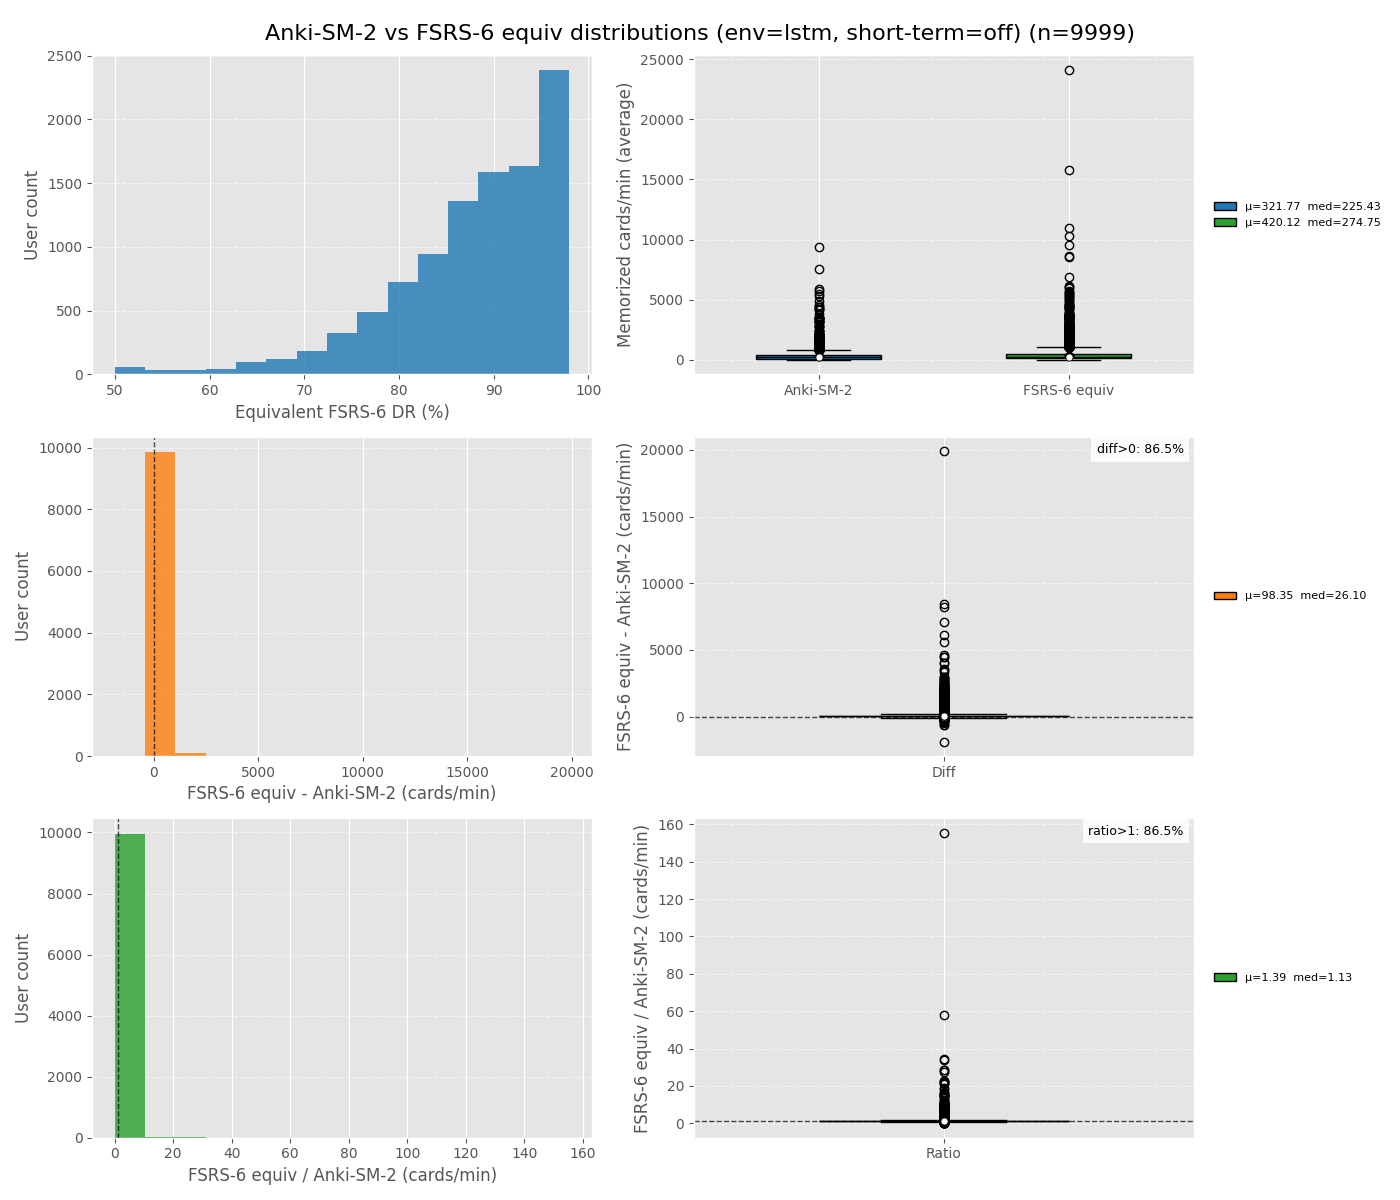
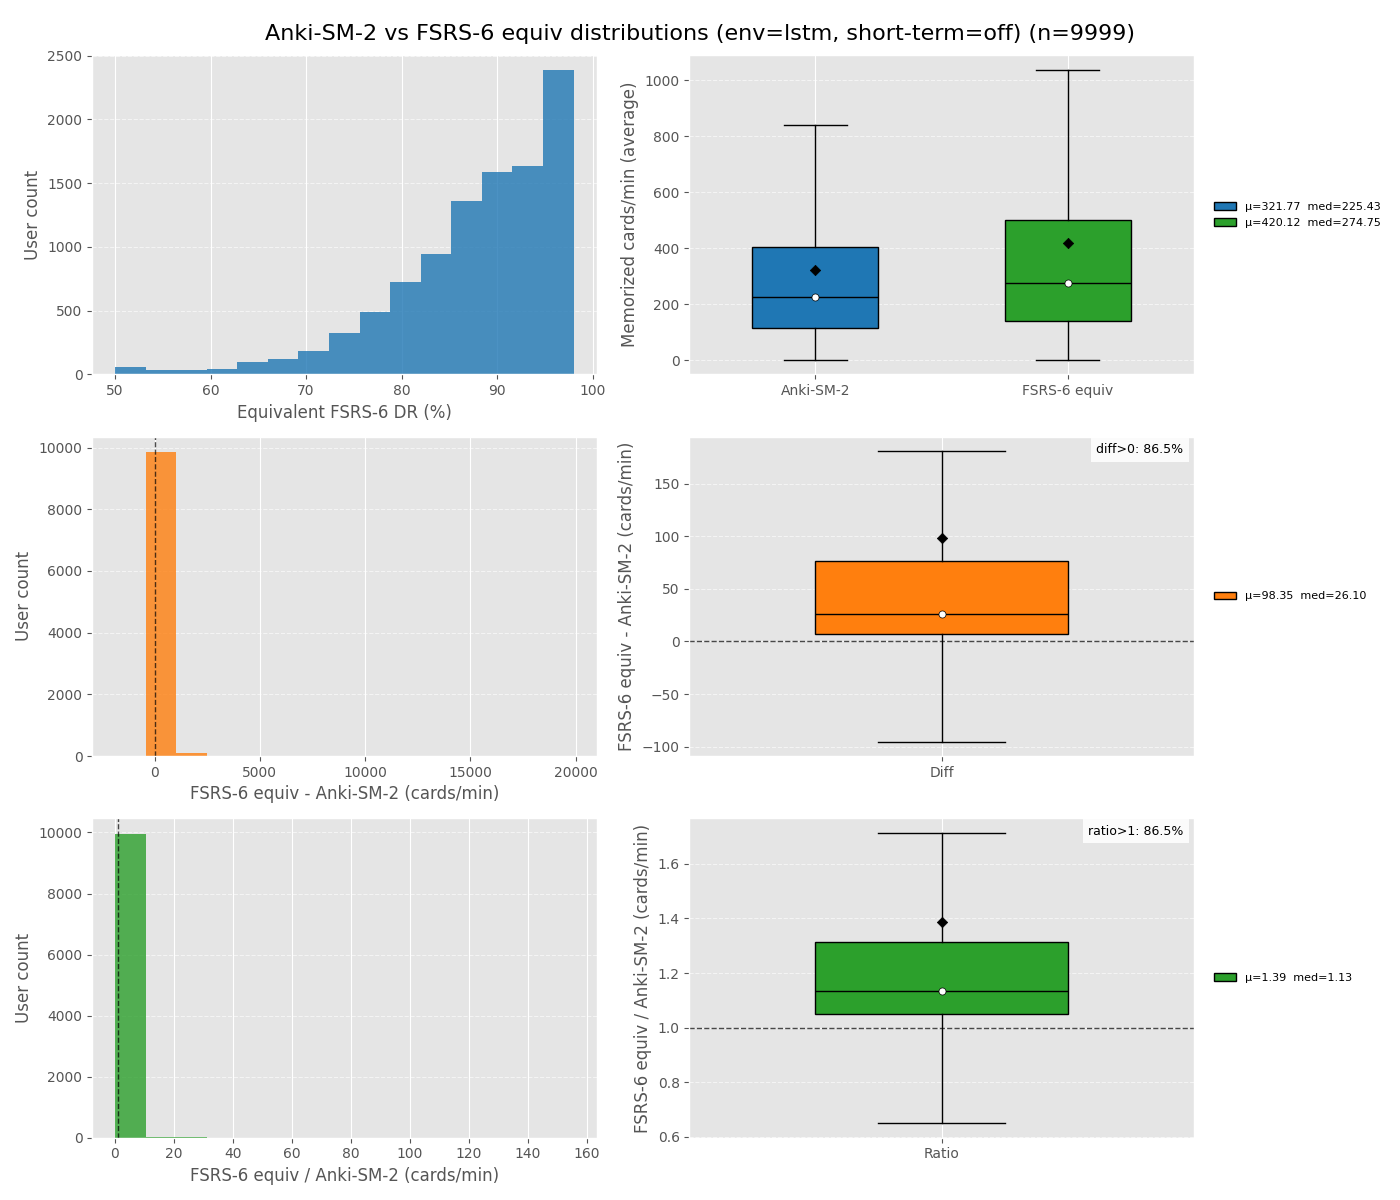
fix(retention-sweep): hide boxplot outliers

diff --git a/experiments/retention_sweep/aggregate_users.py b/experiments/retention_sweep/aggregate_users.py
@@ -485,7 +485,7 @@ def main() -> None:
                 env_label = entry["environment"]
                 title = _format_title(
                     (
-                        "FSRSv3 / FSRS-6 ratio at the same DR "
+                        "FSRSv3 / FSRS-6 ratio at equivalent memorized-average "
                         f"(env={env_label}, short-term={args.short_term})"
                     ),
                     sorted(entry["user_ids"]),
@@ -525,6 +525,7 @@ def _interpolate_equivalent_point(
     candidates: List[Tuple[float, Dict[str, float]]],
     *,
     target_x: float,
+    allow_extrapolation: bool = True,
 ) -> Tuple[float, float] | None:
     """Interpolate (dr, y) at target memorized-average x.
 
@@ -551,6 +552,8 @@ def _interpolate_equivalent_point(
         if point["x"] >= target_x and upper is None:
             upper = point
     if lower is None or upper is None:
+        if not allow_extrapolation:
+            return None
         points.sort(key=lambda item: abs(item["x"] - target_x))
         lower = points[0]
         upper = points[1]
@@ -662,11 +665,15 @@ def _compute_fsrs3_vs_fsrs6_ratio_by_fsrs6_dr(
     envs: List[str],
     common_user_ids: set[int],
 ) -> List[Dict[str, Any]]:
-    """Compute per-user ratio at the same DR (no interpolation), binned by FSRS-6 DR.
+    """Compute per-user ratio at equivalent memorized-average, binned by FSRS-6 DR.
 
-    For each user and each DR value present in both FSRS-6 and FSRSv3 sweeps:
-    - ratio = y3(dr) / y6(dr), where y is memorized_per_minute
-    - group ratio by DR (x axis is FSRS-6 DR)
+    For each user and each FSRS-6 desired retention point:
+    - take FSRS-6 (dr6, x6=memorized_average, y6=memorized_per_minute)
+    - interpolate FSRSv3 to match x6 => y3_equiv
+      - interpolation only (no extrapolation): if x6 is outside FSRSv3's x-range,
+        skip that (user, dr6) point.
+    - ratio = y3_equiv / y6
+    - group ratio by dr6 (x axis is FSRS-6 DR)
     """
 
     entries: List[Dict[str, Any]] = []
@@ -700,19 +707,28 @@ def _compute_fsrs3_vs_fsrs6_ratio_by_fsrs6_dr(
         for user_id in sorted(eligible_users):
             fsrs6_points = fsrs6_users[user_id]
             fsrs3_points = fsrs3_users[user_id]
-            common_drs = sorted(set(fsrs6_points) & set(fsrs3_points))
-            if not common_drs:
+            if len(fsrs3_points) < 2:
                 continue
 
-            for dr in common_drs:
-                y6 = float(fsrs6_points[dr]["memorized_per_minute"])
-                y3 = float(fsrs3_points[dr]["memorized_per_minute"])
-                if y6 <= 0:
+            fsrs3_curve = [(dr, metrics) for dr, metrics in fsrs3_points.items()]
+            for dr6 in sorted(fsrs6_points):
+                metrics6 = fsrs6_points[dr6]
+                x6 = float(metrics6["memorized_average"])
+                y6 = float(metrics6["memorized_per_minute"])
+                if y6 <= 0 or not math.isfinite(y6):
                     continue
+                interp = _interpolate_equivalent_point(
+                    fsrs3_curve,
+                    target_x=x6,
+                    allow_extrapolation=False,
+                )
+                if interp is None:
+                    continue
+                _dr3, y3 = interp
                 ratio = y3 / y6
                 if not math.isfinite(ratio):
                     continue
-                fsrs6_dr.append(float(dr))
+                fsrs6_dr.append(float(dr6))
                 ratio_values.append(ratio)
                 used_users.add(user_id)
 
@@ -758,12 +774,11 @@ def _plot_fsrs3_vs_fsrs6_ratio_boxplot(
         positions=positions,
         widths=0.6,
         patch_artist=True,
-        showfliers=True,
+        showfliers=False,
         boxprops={"facecolor": "#2ca02c", "edgecolor": "black", "alpha": 0.5},
         medianprops={"color": "black"},
         whiskerprops={"color": "black"},
         capprops={"color": "black"},
-        flierprops={"marker": ".", "markersize": 4, "markerfacecolor": "#2ca02c"},
     )
     ax.axhline(1.0, color="black", linestyle="--", linewidth=1.0, alpha=0.7)
     ax.set_xticks(positions)
@@ -897,7 +912,7 @@ def _plot_equivalent_distributions(
         [baseline_per_minute, target_per_minute],
         widths=0.5,
         patch_artist=True,
-        showfliers=True,
+        showfliers=False,
         boxprops={"facecolor": "#d9d9d9", "edgecolor": "black"},
         medianprops={"color": "black"},
     )
@@ -982,7 +997,7 @@ def _plot_equivalent_distributions(
             vert=True,
             widths=0.5,
             patch_artist=True,
-            showfliers=True,
+            showfliers=False,
             boxprops={"facecolor": "#ff7f0e", "edgecolor": "black"},
             medianprops={"color": "black"},
         )
@@ -1034,7 +1049,7 @@ def _plot_equivalent_distributions(
             vert=True,
             widths=0.5,
             patch_artist=True,
-            showfliers=True,
+            showfliers=False,
             boxprops={"facecolor": "#2ca02c", "edgecolor": "black"},
             medianprops={"color": "black"},
         )
